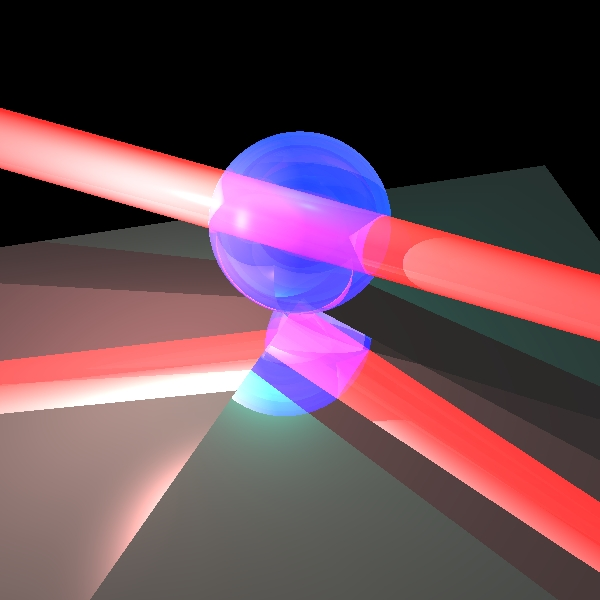
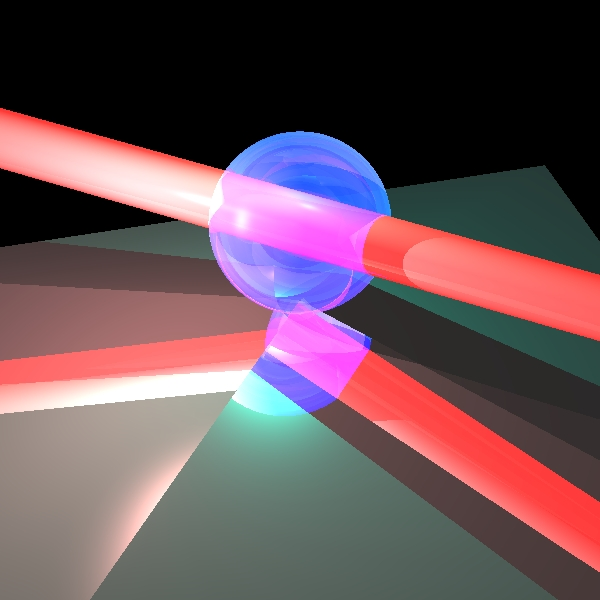
recitation 7 and correcting lecturer's bonus 1

diff --git a/src/unittests/renderer/ReflectionRefractionTests.java b/src/unittests/renderer/ReflectionRefractionTests.java
@@ -162,15 +162,7 @@ public class ReflectionRefractionTests {
         final double SCALED = 10, WIDTH = 100 * SCALED, CENTER_Z = 0 * SCALED;
         final double KD = 0.3, KS = 1 - KD, KT = 0, KR = 1;
         Color triangleColor = new Color(java.awt.Color.black);
-        scene.addGeometries(/*
-                new Triangle(triangleColor, new Material(KD, KS, 30, KT, KR),
-                        new Point3D(0, -WIDTH, 0), new Point3D(-WIDTH, 0, 0), new Point3D(0, 0, CENTER_Z)),
-                new Triangle(triangleColor, new Material(KD, KS, 30, KT, KR),
-                        new Point3D(-WIDTH, 0, 0), new Point3D(0, WIDTH, 0), new Point3D(0, 0, CENTER_Z)),
-                new Triangle(triangleColor, new Material(KD, KS, 30, KT, KR),
-                        new Point3D(0, WIDTH, 0), new Point3D(WIDTH, 0, 0), new Point3D(0, 0, CENTER_Z)),
-                new Triangle(triangleColor, new Material(KD, KS, 30, KT, KR),
-                        new Point3D(WIDTH, 0, 0), new Point3D(0, -WIDTH, 0), new Point3D(0, 0, CENTER_Z)),*/
+        scene.addGeometries(
                 new Plane(new Color(java.awt.Color.black), new Material(0.5, 0.5, 30, 0, 0),
                         new Point3D(0, 0, 0), new Vector(0, 0, 1)),
                 new Sphere(new Color(java.awt.Color.blue), new Material(0.2, 0.2, 30, 0.6, 0.4),
@@ -195,7 +187,7 @@ public class ReflectionRefractionTests {
 
         scene.addLights(new DirectionalLight(new Color(200, 200, 200), new Vector(-1, 1, -1)));
 
-        ImageWriter imageWriter = new ImageWriter("bonusTest", 1200, 600, 3600, 1800);
+        ImageWriter imageWriter = new ImageWriter("bonusTest1", 1200, 600, 3600, 1800);
         Render render = new Render(imageWriter, scene);
 
         render.renderImage();

diff --git a/src/elements/Camera.java b/src/elements/Camera.java
@@ -31,7 +31,6 @@ public class Camera {
         _vUp = direction.crossProduct(new Vector(direction.getEnd().getY().get(),
                 -direction.getEnd().getX().get(), 0).normalize());
         _vRight = _vTo.crossProduct(_vUp).normalize();
-        Vector b = _vTo;
         double x1 = Math.cos(roll) / _vUp.length();
         double x2 = Math.sin(roll) / _vRight.length();
         if (!isZero(x1))
@@ -51,7 +50,6 @@ public class Camera {
      * @throws IllegalArgumentException if vTo and vUp aren't orthogonal
      */
     public Camera(Point3D location, Vector vTo, Vector vUp) {
-
         if (alignZero(vTo.dotProduct(vUp)) != 0)
             throw new IllegalArgumentException();
 

diff --git a/src/elements/PointLight.java b/src/elements/PointLight.java
@@ -33,6 +33,7 @@ public class PointLight extends Light implements LightSource {
     public Color getIntensity(Point3D p) {
         double distanceSquared = _position.distanceSquared(p);
         double distance = Math.sqrt(distanceSquared);
+        // We strive to reach (_kL * distance == 1/10 * _kQ * distanceSquared)
         return _intensity.scale(1 / (_kC + _kL * distance + _kQ * distanceSquared));
     }
 

diff --git a/src/elements/AmbientLight.java b/src/elements/AmbientLight.java
@@ -11,7 +11,7 @@ public class AmbientLight extends Light {
      * Constructor of AmbientLight class, get two parameters - color and intensity
      *
      * @param ia color
-     * @param ka intensity of the light
+     * @param ka intensity of the AmbientLight
      */
     public AmbientLight(Color ia, double ka) {
         super(ia.scale(ka));
